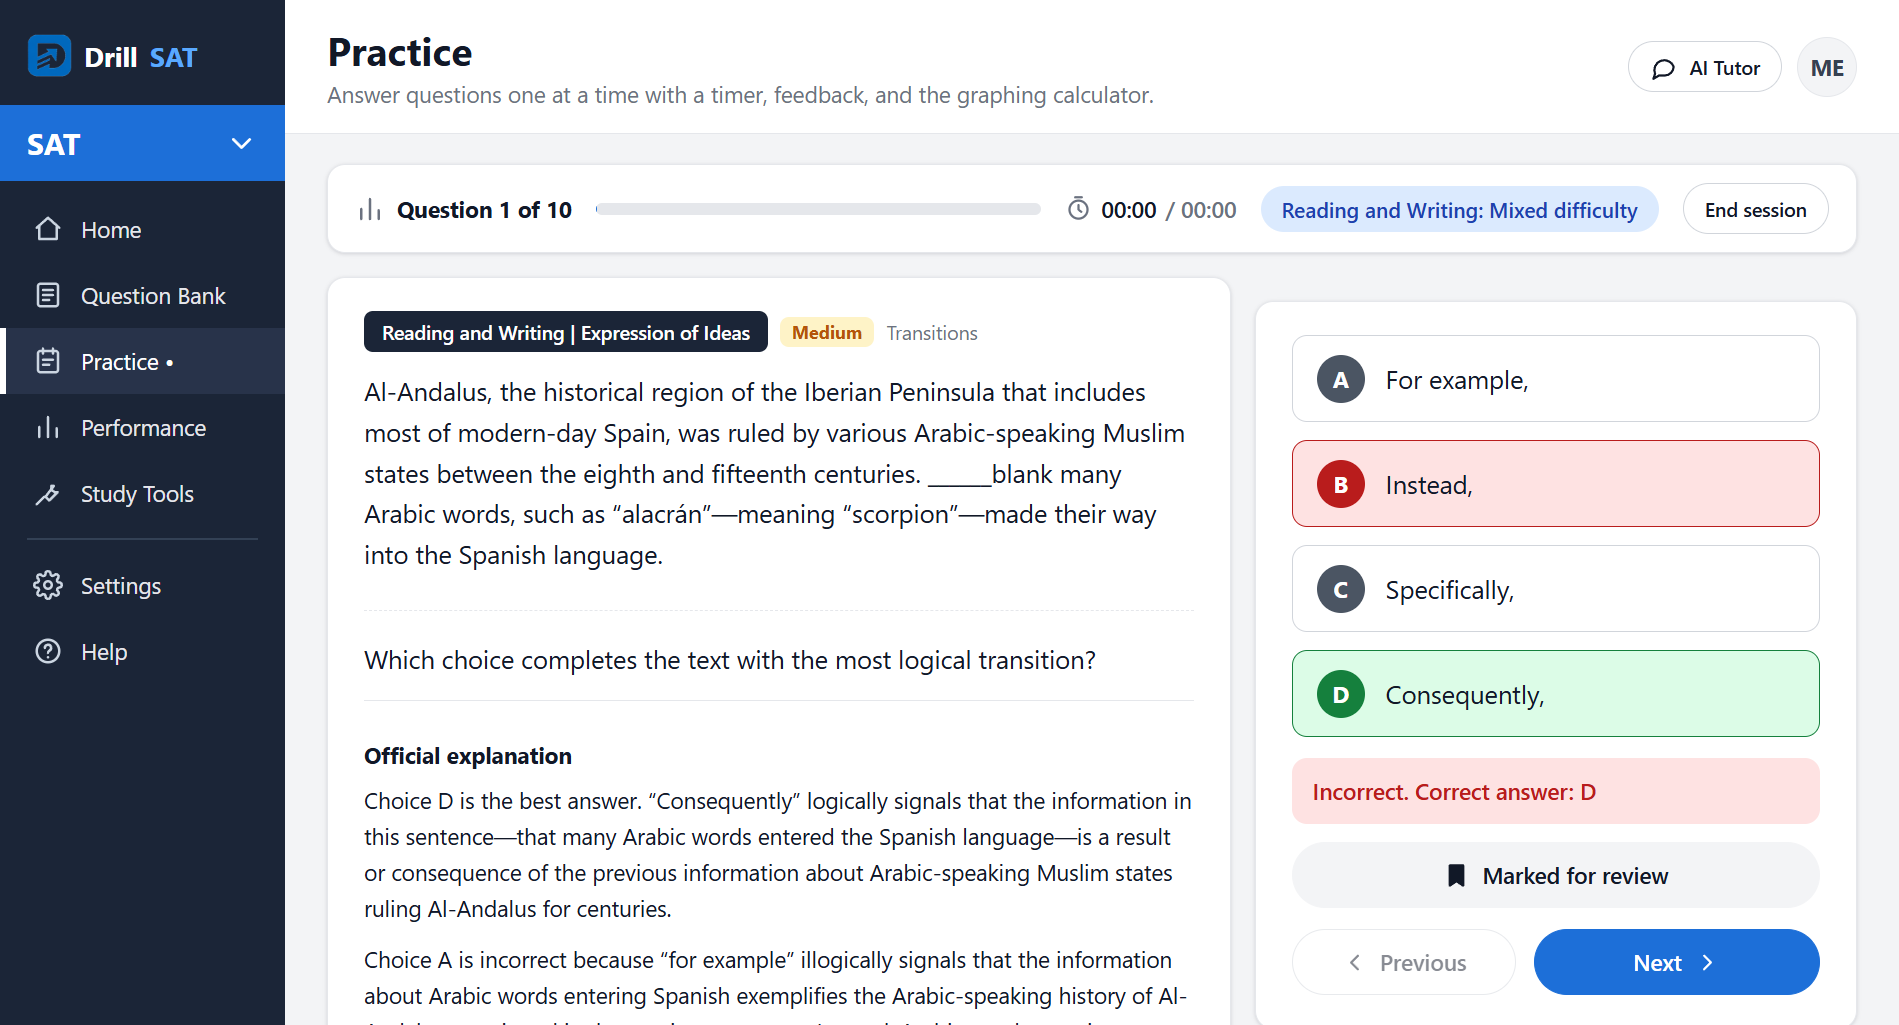
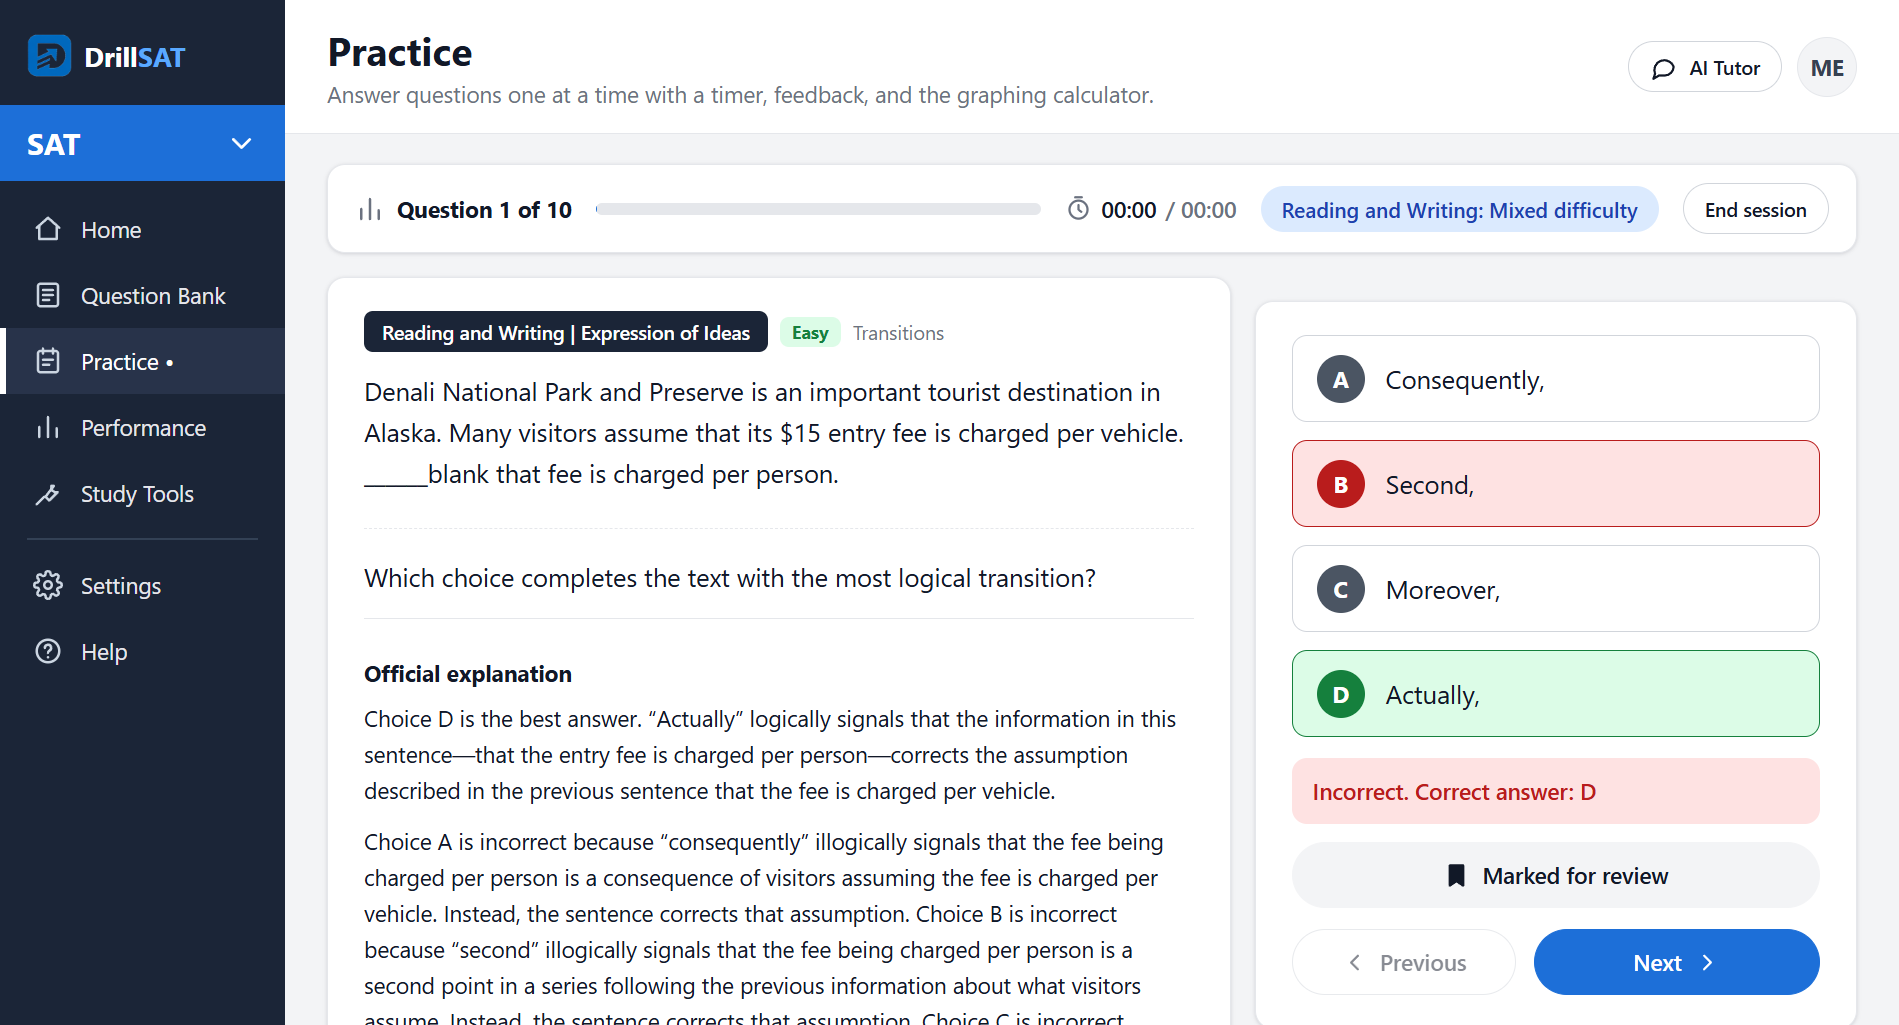
Fix sidebar wordmark spacing, refresh screenshots

diff --git a/src/App.tsx b/src/App.tsx
@@ -58,7 +58,7 @@ export default function App() {
   return (
     <div className="shell">
       <aside className="sidebar">
-        <div className="brand"><img src={logo} alt="" width={30} height={30} style={{ borderRadius: 7 }} /> Drill<span style={{ color: '#5aa9ff' }}>SAT</span></div>
+        <div className="brand"><img src={logo} alt="" width={30} height={30} style={{ borderRadius: 7 }} /><span>Drill<span style={{ color: '#5aa9ff' }}>SAT</span></span></div>
         <div className="program">SAT <ChevronDown style={{ width: 22 }} /></div>
         <nav className="nav">
           {NAV.map((n) => (
